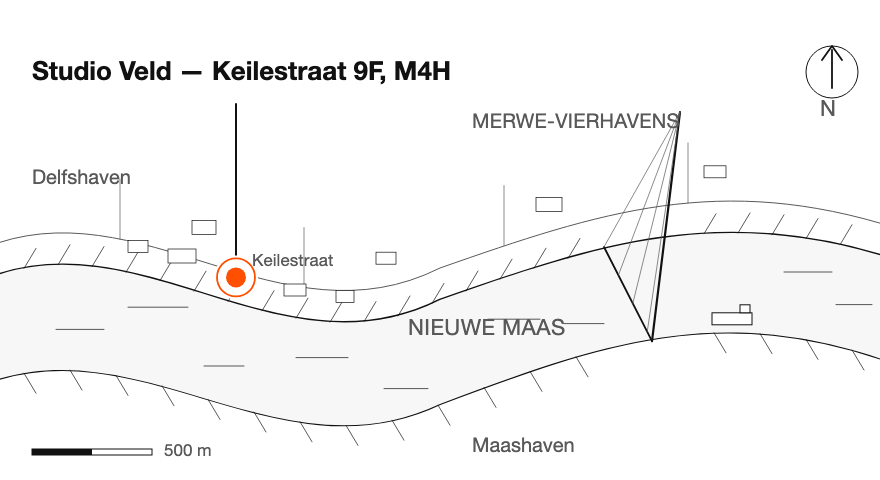
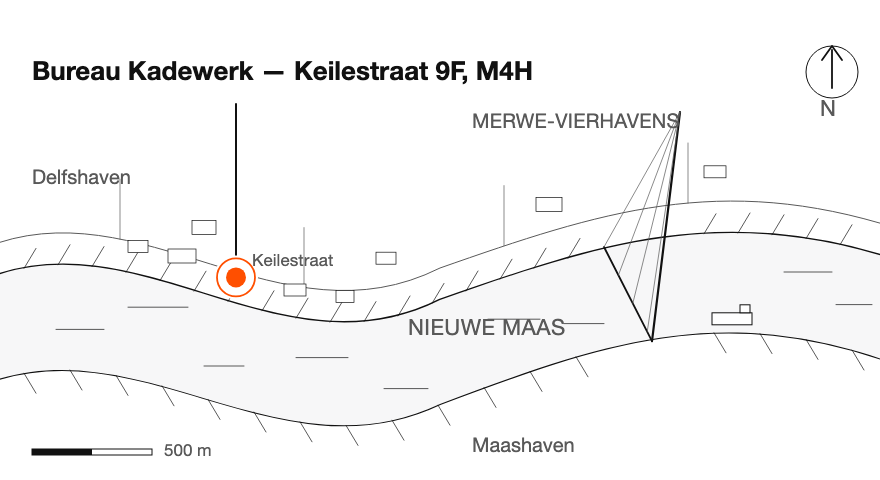
design: rename the firm to Bureau Kadewerk

Changed region(s): [[0.0307, 0.125, 0.6136, 0.1875]]

diff --git a/index.html b/index.html
@@ -3,12 +3,12 @@
 <head>
 <meta charset="utf-8">
 <meta name="viewport" content="width=device-width, initial-scale=1">
-<meta name="description" content="Studio Veld Architecten is een architectenbureau in Rotterdam. Wij ontwerpen villa's en woonblokken en transformeren pakhuizen, kerken en scholen tot woningen en werkplekken.">
+<meta name="description" content="Bureau Kadewerk is een architectenbureau in Rotterdam. Wij ontwerpen villa's en woonblokken en transformeren pakhuizen, kerken en scholen tot woningen en werkplekken.">
 <meta name="theme-color" content="#FFFFFF">
-<title>Studio Veld Architecten — Wonen en hergebruik in Rotterdam</title>
+<title>Bureau Kadewerk — Wonen en hergebruik in Rotterdam</title>
 <style>
 /* ============================================================
-   Studio Veld Architecten — design tokens (theme.json presets)
+   Bureau Kadewerk — design tokens (theme.json presets)
    ============================================================ */
 :root {
   --wp--preset--font-family--sans: "Helvetica Neue", Helvetica, Arial, "Liberation Sans", sans-serif;
@@ -596,7 +596,7 @@ section[id] { scroll-margin-top: 5.5rem; }
 <!-- ===== Header ===== -->
 <header class="site-header">
   <div class="container header-inner">
-    <a class="brand" href="#top">Studio Veld<span>architecten · Rotterdam</span></a>
+    <a class="brand" href="#top">Bureau Kadewerk<span>architecten · Rotterdam</span></a>
     <nav class="site-nav" aria-label="Hoofdmenu">
       <a href="#projecten">Projecten</a>
       <a href="#werkwijze">Werkwijze</a>
@@ -615,7 +615,7 @@ section[id] { scroll-margin-top: 5.5rem; }
       <div class="hero-copy">
         <p class="kicker">Architectenbureau — Rotterdam, sinds 2009</p>
         <h1 id="hero-titel">Precieze architectuur voor wonen en hergebruik.</h1>
-        <p class="lead">Studio Veld is een bureau van twaalf architecten in Rotterdam. Wij ontwerpen villa&rsquo;s en woonblokken — en geven pakhuizen, kerken en scholen een tweede leven als woning of werkplek.</p>
+        <p class="lead">Bureau Kadewerk is een team van twaalf architecten in Rotterdam. Wij ontwerpen villa&rsquo;s en woonblokken — en geven pakhuizen, kerken en scholen een tweede leven als woning of werkplek.</p>
         <div class="hero-actions">
           <a class="btn" href="#contact">Plan een gesprek</a>
           <a class="link-arrow" href="#projecten">Bekijk zes projecten
@@ -769,7 +769,7 @@ section[id] { scroll-margin-top: 5.5rem; }
         </dl>
       </div>
       <div class="about-copy">
-        <p>Studio Veld Architecten is in 2009 opgericht in Rotterdam. We zijn met zijn twaalven: architecten, een interieurontwerper, een technisch tekenaar en een projectleider. Sinds 2016 werken we vanuit een eigen pakhuis in Merwe-Vierhavens — het gebouw dat we zelf hebben getransformeerd.</p>
+        <p>Bureau Kadewerk is in 2009 opgericht in Rotterdam. We zijn met zijn twaalven: architecten, een interieurontwerper, een technisch tekenaar en een projectleider. Sinds 2016 werken we vanuit een eigen pakhuis in Merwe-Vierhavens — het gebouw dat we zelf hebben getransformeerd.</p>
         <p>We werken voor particulieren en woningcorporaties. Nieuwbouw villa&rsquo;s en woonblokken, maar ook de transformatie van pakhuizen, kerken en scholen. Wat al die projecten gemeen hebben: daglicht, een heldere constructie en een gebouw dat bij de straat past.</p>
       </div>
       <figure class="map-figure">
@@ -835,7 +835,7 @@ section[id] { scroll-margin-top: 5.5rem; }
         </form>
       </div>
       <aside class="contact-info" aria-label="Contactgegevens">
-        <h3>Studio Veld Architecten</h3>
+        <h3>Bureau Kadewerk</h3>
         <dl class="facts">
           <div class="fact"><dt>Bezoekadres</dt><dd><address>Keilestraat 9F<br>3029 BP Rotterdam (M4H)</address></dd></div>
           <div class="fact"><dt>E-mail</dt><dd><a href="mailto:studio@example.com">studio@example.com</a></dd></div>
@@ -852,7 +852,7 @@ section[id] { scroll-margin-top: 5.5rem; }
 <footer class="site-footer">
   <div class="container footer-grid">
     <div>
-      <p class="brand">Studio Veld<span>architecten · Rotterdam</span></p>
+      <p class="brand">Bureau Kadewerk<span>architecten · Rotterdam</span></p>
       <p class="footer-tag">Precieze architectuur voor wonen en hergebruik, sinds 2009.</p>
     </div>
     <div class="footer-col">
@@ -872,7 +872,7 @@ section[id] { scroll-margin-top: 5.5rem; }
     </div>
   </div>
   <div class="container footer-bottom">
-    <p>© 2026 Studio Veld Architecten, Rotterdam</p>
+    <p>© 2026 Bureau Kadewerk, Rotterdam</p>
     <a class="link-arrow" href="#top">Terug naar boven
       <svg viewBox="0 0 16 16" aria-hidden="true"><path d="M8 14V3M3 7l5-5 5 5"/></svg>
     </a>

diff --git a/README.md b/README.md
@@ -2,7 +2,7 @@
 
 A test run of the `wp-frontend-builder` Vibe agent from
 [mistral-toolbox](https://github.com/imagewize/mistral-toolbox). From a short brief, the agent
-built a homepage for an invented Rotterdam architecture firm, **Studio Veld Architecten**, as one
+built a homepage for an invented Rotterdam architecture firm, **Bureau Kadewerk**, as one
 self-contained HTML/CSS file. The aim is to test the loop: build from a brief, revise with change
 requests, then convert to a WordPress block theme.
 
@@ -54,4 +54,4 @@ The brief and every later prompt are in [`PROMPTS.md`](PROMPTS.md).
 
 - **Form:** posts via `mailto:`, which opens the visitor's mail app. In WordPress it becomes a form plugin or block.
 - **Firm and content:** the firm, projects, client quote and phone number are invented. The street names and districts are real.
-- **Email and phone:** placeholders, `studio@example.com` (a domain reserved for examples) and `+31 (0)10 000 00 00`. The firm's name has no domain of its own: `studioveld.nl` is registered to someone else, so the page does not link to it.
+- **Name, email and phone:** the firm was first called Studio Veld Architecten and was renamed to Bureau Kadewerk, because `studioveld.nl` is registered to someone else. The email and phone are placeholders: `studio@example.com` (a domain reserved for examples) and `+31 (0)10 000 00 00`.

diff --git a/PROMPTS.md b/PROMPTS.md
@@ -31,7 +31,7 @@ Agent: `wp-frontend-builder`
 Build the homepage for a small architecture firm as one self-contained index.html with embedded CSS.
 
 Brief:
-- Firm: Studio Veld Architecten, Rotterdam. 12 people, founded 2009.
+- Firm: Bureau Kadewerk, Rotterdam (renamed from Studio Veld Architecten on Nov 2, 2026; the first runs used the old name). 12 people, founded 2009.
 - Work: residential (villas, housing blocks) and adaptive reuse (turning old warehouses and churches into homes and offices).
 - Audience: private clients and housing corporations who are choosing an architect.
 - Main action: "Plan a conversation" (a contact or intake request).
